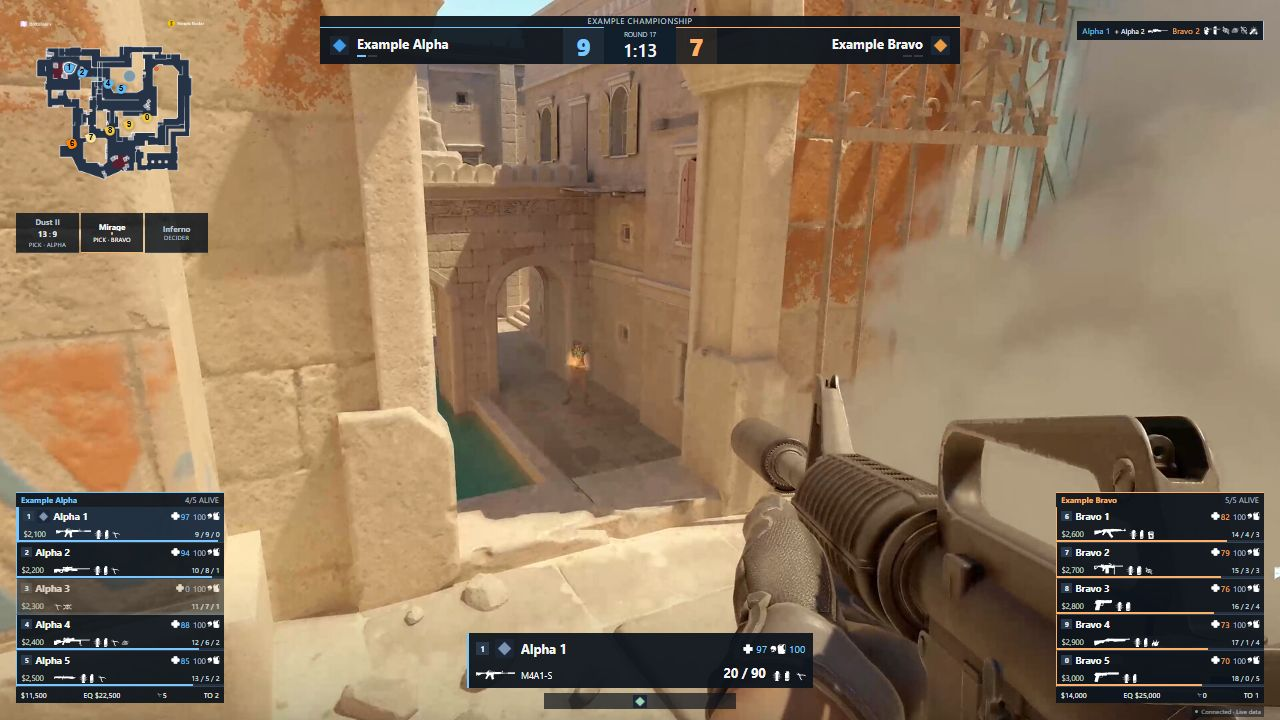
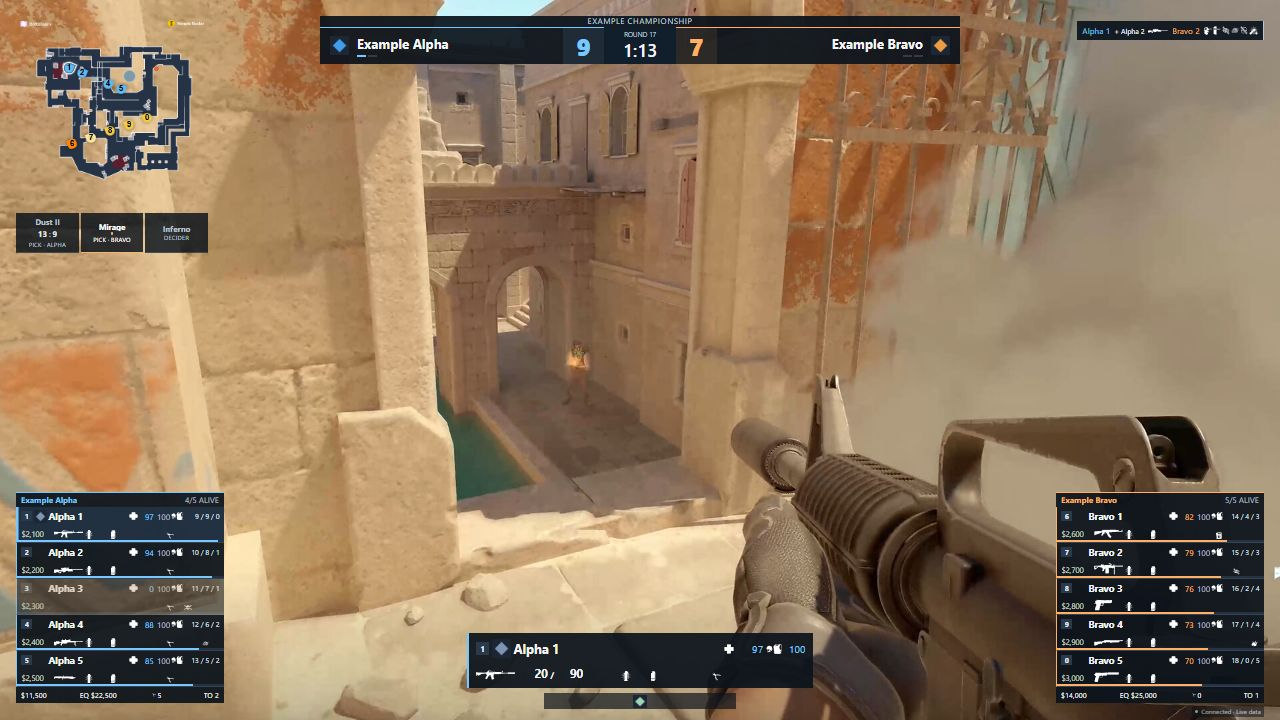
Reserve live HUD data in fixed grid tracks and remove duplicate weapon label

diff --git a/src/BasicHud/wwwroot/hud.css b/src/BasicHud/wwwroot/hud.css
@@ -34,11 +34,10 @@ html, body, #app { width: 100%; height: 100%; margin: 0; overflow: hidden; backg
 .health-track { position: absolute; left: 0; bottom: 0; width: 100%; height: .13em; background: #253242; }
 .health-track span { display: block; height: 100%; background: var(--side, #b6c1ce); }
 .player-equipment { display: inline-flex; align-items: center; gap: .15em; color: #d8e3ee; }
-.utility-icons { display: inline-flex; align-items: flex-end; gap: calc(var(--utility-height) * .25); height: var(--utility-height); min-width: 0; }
-.utility-item { position: relative; display: inline-flex; align-items: flex-end; height: var(--utility-height); flex: 0 0 auto; }
-.utility-item.has-count { padding-right: .45em; }
+.utility-icons { display: grid; grid-template-columns: repeat(6, var(--utility-slot, 1.4em)); align-items: end; height: var(--utility-height); min-width: 0; }
+.utility-item { position: relative; display: grid; grid-template-columns: minmax(0, 1fr) .45em; align-items: end; height: var(--utility-height); min-width: 0; }
 .utility-item .equipment-icon { --icon-height: var(--utility-height); --icon-max-width: 9999px; }
-.utility-item small { position: absolute; right: 0; bottom: -.1em; font-size: .65em; font-weight: 700; line-height: 1; text-shadow: 0 0 .2em #000; }
+.utility-item small { text-align: right; font-size: .65em; font-weight: 700; line-height: 1; text-shadow: 0 0 .2em #000; }
 
 /* Fixed 1920 x 1080 live composition. All measurements scale with the canvas. */
 .scoreboard { position: absolute; left: 25%; top: 2.222222%; width: 50%; height: 6.666667%; text-align: center; }
@@ -71,35 +70,54 @@ html, body, #app { width: 100%; height: 100%; margin: 0; overflow: hidden; backg
 .roster-heading span:first-child { min-width: 0; font-weight: 700; }
 .roster-heading span:last-child { flex-shrink: 0; color: #afbdcd; }
 .live-player { position: relative; height: 2.8125em; padding: .15em .35em .2em; background: var(--surface); border-left: .13em solid var(--side); border-bottom: 1px solid #354253; }
-.live-player.is-observed { background: rgb(27 44 63 / 96%); border-left-width: .25em; }
-.live-player-top, .live-player-bottom { height: 1.19em; display: flex; align-items: center; gap: .25em; min-width: 0; }
+.live-player.is-observed { background: rgb(27 44 63 / 96%); box-shadow: inset .12em 0 var(--side); }
+.live-player-top, .live-player-bottom { height: 1.19em; display: grid; align-items: center; column-gap: .12em; min-width: 0; }
+.live-player-top { grid-template-columns: .85em 1em minmax(0, 1fr) 1.9em 2.25em 2.65em; }
+.live-player-top > *, .live-player-bottom > *, .observed-identity > *, .observed-loadout > * { min-width: 0; }
+.portrait-cell { display: grid; place-items: center; height: 100%; overflow: hidden; }
 .live-player-top .observer-slot { font-size: .55em; }
 .live-player-top .portrait { width: 1em; height: 1em; }
-.live-player-top .player-name { flex: 1; font-size: .75em; font-weight: 650; }
-.live-hp, .live-armor { display: inline-flex; align-items: center; gap: .13em; font-size: .64em; }
-.live-hp { color: var(--side); }
-.live-armor { color: #b1bfd0; }
-.live-player-bottom { gap: .24em; }
-.live-player-bottom .money { font-size: .59em; width: 3.9em; flex-shrink: 0; }
-.live-player-bottom .active-weapon { --icon-height: .9em; --icon-max-width: 2.8em; }
-.live-player-bottom .utility-icons { font-size: .68em; flex-shrink: 1; overflow: hidden; }
-.live-player-bottom .player-equipment { font-size: .63em; }
-.live-player-bottom .kda { margin-left: auto; font-size: .55em; }
-.roster-economy { height: 1.25em; display: flex; align-items: center; justify-content: space-between; gap: .3em; padding: 0 .4em; background: var(--surface); }
+.live-player-top .player-name { font-size: .75em; font-weight: 650; }
+.live-hp, .live-armor { display: grid; align-items: center; gap: .1em; font-size: .64em; }
+.live-hp { grid-template-columns: 1em minmax(0, 1fr); color: var(--side); }
+.live-armor { grid-template-columns: minmax(0, 1fr) 1.6em; color: #b1bfd0; }
+.live-hp > span:last-child, .live-armor > span:first-child { text-align: right; }
+.live-player-top .kda { font-size: .55em; overflow: hidden; text-align: right; }
+.live-player-bottom { grid-template-columns: 2.4em 2.3em 6.25em minmax(0, 1fr); }
+.live-player-bottom .money { font-size: .59em; overflow: hidden; }
+.weapon-cell { display: grid; align-items: end; justify-items: start; min-width: 0; overflow: hidden; height: 100%; }
+.live-player-bottom .active-weapon { --icon-height: .9em; --icon-max-width: 2.3em; }
+.live-player-bottom .utility-icons { --utility-slot: min(1.041667vw, 1.851852vh); font-size: .68em; }
+.live-player-bottom .player-equipment { font-size: .58em; }
+.live-player-bottom .player-equipment, .observed-loadout .player-equipment { display: grid; grid-template-columns: repeat(6, minmax(0, 1fr)); align-items: end; gap: 0; height: 100%; }
+.player-equipment .equipment-kit { grid-column: 1; }
+.player-equipment .equipment-bomb { grid-column: 2; }
+.player-equipment .equipment-dead { grid-column: 3; }
+.player-equipment .equipment-blind { grid-column: 4; }
+.player-equipment .equipment-smoke { grid-column: 5; }
+.player-equipment .equipment-fire { grid-column: 6; }
+.roster-economy { height: 1.25em; display: grid; grid-template-columns: 1fr 1.25fr .55fr .6fr; align-items: center; gap: .3em; padding: 0 .4em; background: var(--surface); }
 .roster-economy span { display: inline-flex; gap: .15em; align-items: center; font-size: .58em; white-space: nowrap; }
 .roster-empty { background: var(--surface); padding: .8em; text-align: center; color: var(--muted); font-size: .7em; }
 
 .observed { position: absolute; left: 36.458333%; top: 87.962963%; width: 27.083333%; height: 7.592593%; padding: .35em .6em; background: var(--surface); border-left: .18em solid var(--side); overflow: hidden; }
-.observed-identity, .observed-loadout { display: flex; align-items: center; min-width: 0; gap: .5em; height: 1.7em; }
+.observed-identity, .observed-loadout { display: grid; align-items: center; min-width: 0; gap: .2em; height: 1.7em; }
+.observed-identity { grid-template-columns: 1em 1.5em minmax(0, 1fr) 6.4em; }
 .observed-identity .observer-slot { font-size: .65em; }
 .observed-identity .portrait { width: 1.5em; height: 1.5em; }
-.observed-identity .player-name { font-size: 1em; flex: 1; }
-.observed-vitals { display: inline-flex; align-items: center; gap: .3em; color: var(--side); font-size: .8em; }
+.observed-identity .player-name { font-size: 1em; }
+.observed-vitals { display: grid; grid-template-columns: 1fr 1fr; gap: .3em; color: var(--side); font-size: .8em; }
+.observed-health, .observed-armor { display: grid; grid-template-columns: 1.6em minmax(0, 1fr); align-items: center; gap: .15em; }
+.observed-vitals > span > span:last-child { text-align: right; }
+.observed-loadout { grid-template-columns: 3.333333em 4.8em 2.6em 6.875em minmax(0, 1fr); }
 .observed-weapon { --icon-height: 1em; --icon-max-width: 3em; }
-.observed-weapon-name { font-size: .68em; min-width: 0; overflow: hidden; text-overflow: ellipsis; white-space: nowrap; }
-.observed-loadout .ammo { font-size: 1em; margin-left: auto; white-space: nowrap; }
+.ammo-cell { display: grid; align-items: end; height: 100%; min-width: 0; overflow: hidden; }
+.ammo { display: grid; grid-template-columns: minmax(0, 1fr) .8em minmax(0, 1fr); align-items: baseline; width: 100%; font-size: .9em; white-space: nowrap; text-align: right; }
+.ammo > span { min-width: 0; overflow: hidden; }
+.ammo > small { text-align: center; font-size: .7em; }
+.observed-loadout .utility-icons { --utility-slot: min(1.145833vw, 2.037037vh); }
 .observed-loadout .utility-icons, .observed-loadout .player-equipment { font-size: .75em; }
-.reload { font-size: .55em; color: #ffd5a3; }
+.reload { display: grid; align-items: end; height: 100%; min-width: 0; overflow: hidden; white-space: nowrap; font-size: .55em; color: #ffd5a3; }
 
 .radar-widget { position: absolute; left: 1.25%; top: 2.222222%; width: 15%; height: 26.666667%; container-type: size; }
 .radar-widget > svg { display: block; width: 100%; height: 100%; overflow: visible; }
@@ -281,3 +299,16 @@ html, body, #app { width: 100%; height: 100%; margin: 0; overflow: hidden; backg
 .live-player-bottom .utility-icons { --utility-height: min(.729167vw, 1.296296vh); }
 .observed-loadout { align-items: flex-end; }
 .radar-bomb { display: flex; align-items: center; justify-content: center; }
+
+/* Every known grenade keeps its own column, including when adjacent slots are empty. */
+.utility-item { grid-row: 1; }
+.utility-item[data-utility="flashbang"] { grid-column: 1; }
+.utility-item[data-utility="hegrenade"] { grid-column: 2; }
+.utility-item[data-utility="smokegrenade"] { grid-column: 3; }
+.utility-item[data-utility="molotov"] { grid-column: 4; }
+.utility-item[data-utility="incgrenade"] { grid-column: 5; }
+.utility-item[data-utility="decoy"] { grid-column: 6; }
+.live-player-bottom .player-equipment > *, .observed-loadout .player-equipment > * { grid-row: 1; --icon-max-width: 100%; }
+.roster-economy span { min-width: 0; overflow: hidden; }
+.roster-economy span:last-child { justify-content: end; }
+.live-hp > span, .live-armor > span, .observed-vitals > span > span:last-child { min-width: 0; overflow: hidden; white-space: nowrap; }

diff --git a/tests/BasicHud.Tests/RenderTests.cs b/tests/BasicHud.Tests/RenderTests.cs
@@ -128,7 +128,8 @@ static class RenderTests
             await renderer.Render(observedPlayer, new() { [nameof(ObservedPlayer.Player)] = unknownWeaponPlayer, [nameof(ObservedPlayer.Context)] = BroadcastContext.Empty });
             check(renderer.HasComponent(livePlayer, typeof(EquipmentIcon)) && renderer.HasDescendantText(observedPlayer, "Unknown weapon") && !renderer.HasAttribute(observedPlayer, "class", "ammo"), "actual supplied unknown active weapon keeps its distinct unknown text/name without inventing firearm ammunition");
             await renderer.Render(observedPlayer, new() { [nameof(ObservedPlayer.Player)] = weaponPlayer with { Weapons = [held with { State = WeaponStatus.Reloading }] }, [nameof(ObservedPlayer.Context)] = BroadcastContext.Empty });
-            check(renderer.HasComponent(observedPlayer, typeof(EquipmentIcon)) && renderer.HasText(observedPlayer, "7 / 61") && renderer.HasMarkup(observedPlayer, "class=\"reload\""), "actual observed reload still renders its known weapon and source ammunition");
+            check(renderer.HasComponent(observedPlayer, typeof(EquipmentIcon)) && renderer.HasAttribute(observedPlayer, "aria-label", "7 / 61") && renderer.HasAttribute(observedPlayer, "class", "reload"), "actual observed reload keeps source ammunition in separately aligned columns");
+            check(!renderer.HasAttribute(observedPlayer, "class", "observed-weapon-name") && !renderer.HasDescendantText(observedPlayer, "AK-47"), "observer has no duplicate weapon label beside its accessible original icon");
             await renderer.Render(observedPlayer, new() { [nameof(ObservedPlayer.Player)] = weaponPlayer with { Health = 0 }, [nameof(ObservedPlayer.Context)] = BroadcastContext.Empty });
             check(!renderer.HasComponent(observedPlayer, typeof(EquipmentIcon)) && !renderer.HasAttribute(observedPlayer, "class", "ammo"), "transition from armed/reloading to dead clears the rendered current weapon and ammunition immediately");
         });

diff --git a/README.md b/README.md
@@ -10,13 +10,13 @@ The screenshot shows the actual packaged renderer with synthetic HUD data in an 
 
 ## Install and use
 
-1. Download `sou-basic-wasm-0.4.5.souhud` and its SHA-256 file from [Releases](https://github.com/getsOU/sOU-HUD-WASM/releases).
+1. Download `sou-basic-wasm-0.4.6.souhud` and its SHA-256 file from [Releases](https://github.com/getsOU/sOU-HUD-WASM/releases).
 2. In the [sOU desktop app](https://www.getsou.app/get-sou), choose **HUDs → Paket importieren**, select the package and install it.
 3. Select the HUD and **Ansicht**, then copy the address for an OBS Browser Source or open the CS2 output. Use **1920 × 1080** and a transparent browser background. Use sOU's actual address rather than guessing the local port.
 4. Open its **Panel** and save/apply any captions, scene choices, references or images. All Hide checkboxes are unchecked by default: components stay enabled unless explicitly hidden.
 5. Supply CS2/HLAE data through sOU's normal setup. Optional data can remain absent; the HUD does not create missing players, game events or statistics.
 
-The stable package ID remains `sou-basic-wasm`; the current version is **0.4.5**, protocol v2. Select the new version and reopen outputs after installing. Caption/Hide fields and all eight views remain compatible. Previous releases and already running outputs are unchanged.
+The stable package ID remains `sou-basic-wasm`; the current version is **0.4.6**, protocol v2. Select the new version and reopen outputs after installing. Caption/Hide fields and all eight views remain compatible. Previous releases and already running outputs are unchanged.
 
 [Changelog](CHANGELOG.md) · [Eight output views](docs/views.md) · [All panel fields](docs/panel.md) · [Feature/source matrix and limits](docs/features.md) · [Public author guide](https://www.getsou.app/docs/hud-entwicklung)
 
@@ -47,8 +47,8 @@ pwsh ./scripts/Build.ps1
 The script performs locked restore, restores the public `SOU.Hud.Tool`, verifies formatting, runs focused model/lifecycle/metadata tests and actual Razor image-error event checks, publishes Release WASM, packs and validates the HUD and writes a checksum:
 
 ```text
-artifacts/sou-basic-wasm-0.4.5.souhud
-artifacts/sou-basic-wasm-0.4.5.souhud.sha256
+artifacts/sou-basic-wasm-0.4.6.souhud
+artifacts/sou-basic-wasm-0.4.6.souhud.sha256
 ```
 
 Existing output directories/packages are never overwritten. Repeat in a fresh directory:
@@ -136,3 +136,7 @@ Icon frames follow measured visible SVG geometry, with unchanged original source
 The killfeed places older visible kills above newer ones. New kills append at the bottom; at six entries the oldest leaves the top.
 
 The measured bounds in docs/cs2-icon-geometry.json are tied to the original SVG SHA-256 values. After updating reviewed measurements, run scripts/Generate-IconLayout.ps1 to regenerate the CSS; -Check verifies it without writing. CI checks source digests and generated layout.
+
+## Stable live data columns (0.4.6)
+
+Known active weapons use the original icon without a repeated visible name. The icon retains its accessible name and title; unavailable artwork keeps its text fallback. Live player and observer data use fixed grid tracks for portraits, names, health, armor, K/D/A, cash, weapon, ammo, reload state, utility and status. Empty cells retain their area. Each known grenade has its own fixed position and count area, so removing utility does not move other grenades. Numerical fields use tabular digits; long names truncate inside their own cell. Detailed inventory lists retain their explicit item labels.

diff --git a/scripts/release-notes.md b/scripts/release-notes.md
@@ -1,7 +1,5 @@
-# 0.4.5
+# 0.4.6
 
-Balance original CS2 SVGs using measured visible geometry without changing the source artwork. Combined armor/helmet retains its natural width; health and armor follow adjacent text sizes. Utility shares one baseline, optical height and spacing; counts do not shift the grenade. Weapon silhouettes preserve their proportions within their size limits.
+Remove the repeated active-weapon name beside the original observer icon. Reserve data areas with fixed CSS grid tracks: money, weapons, ammo, reload, utility, status, portraits, player names and numerical values stay in their own cells. Empty cells retain space. Known grenade types keep fixed slots and count positions.
 
-New kills appear at the bottom, older visible kills above them. At six entries the oldest leaves the top.
-
-Import 0.4.5 and reopen outputs. GPLv3 HUD code, separate original-artwork rights and the MIT public SDK remain unchanged. Browser and automated checks are separate from native CS2/OBS acceptance.
+Import 0.4.6 and reopen outputs. Original CS2 icons, radar, eight views and compatible panel values are retained. GPLv3 HUD code, separate artwork rights and MIT public SDK remain unchanged. Browser checks are separate from native CS2/OBS acceptance.

diff --git a/CHANGELOG.md b/CHANGELOG.md
@@ -1,5 +1,11 @@
 # Changelog
 
+## 0.4.6
+
+- Remove duplicate active-weapon text beside original observer icons.
+- Reserve live roster, observer and economy data with fixed grid tracks, including empty cells.
+- Keep known utility and status types in stable slots; counts and weapon silhouettes cannot move adjacent fields.
+
 ## 0.4.5
 
 - Balance visible original SVG contours instead of forcing different shapes into equal square boxes.
